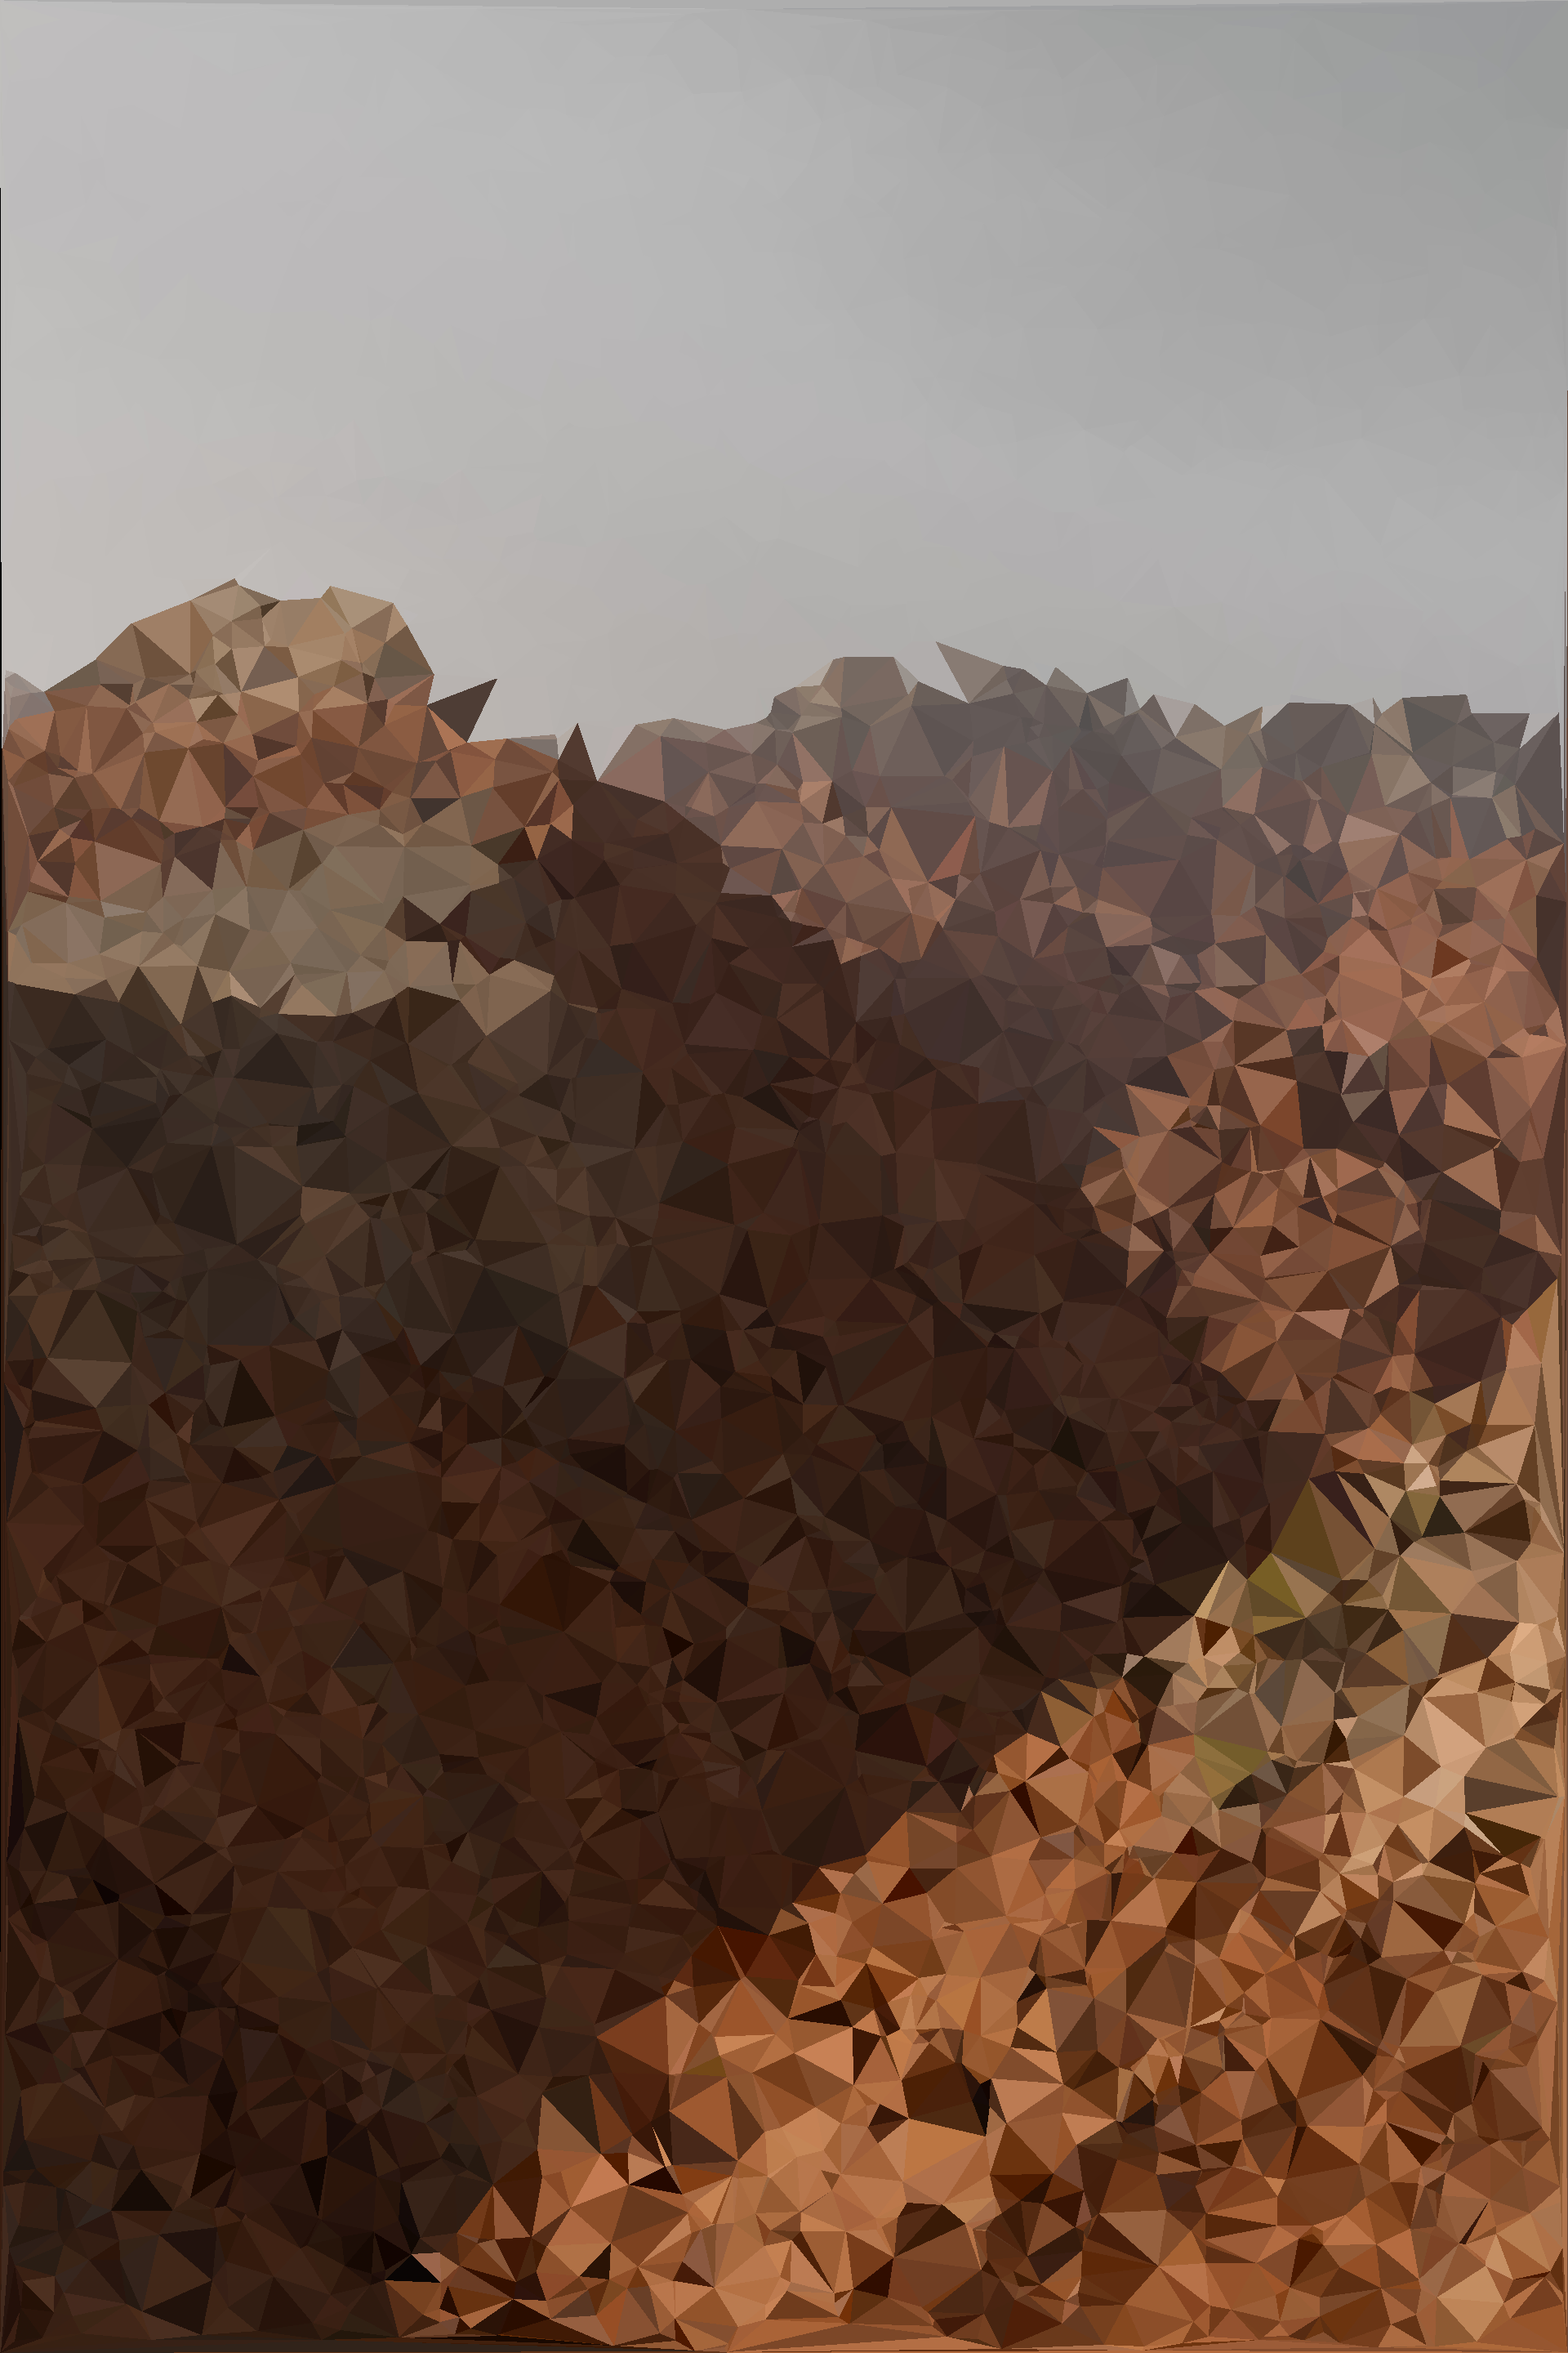
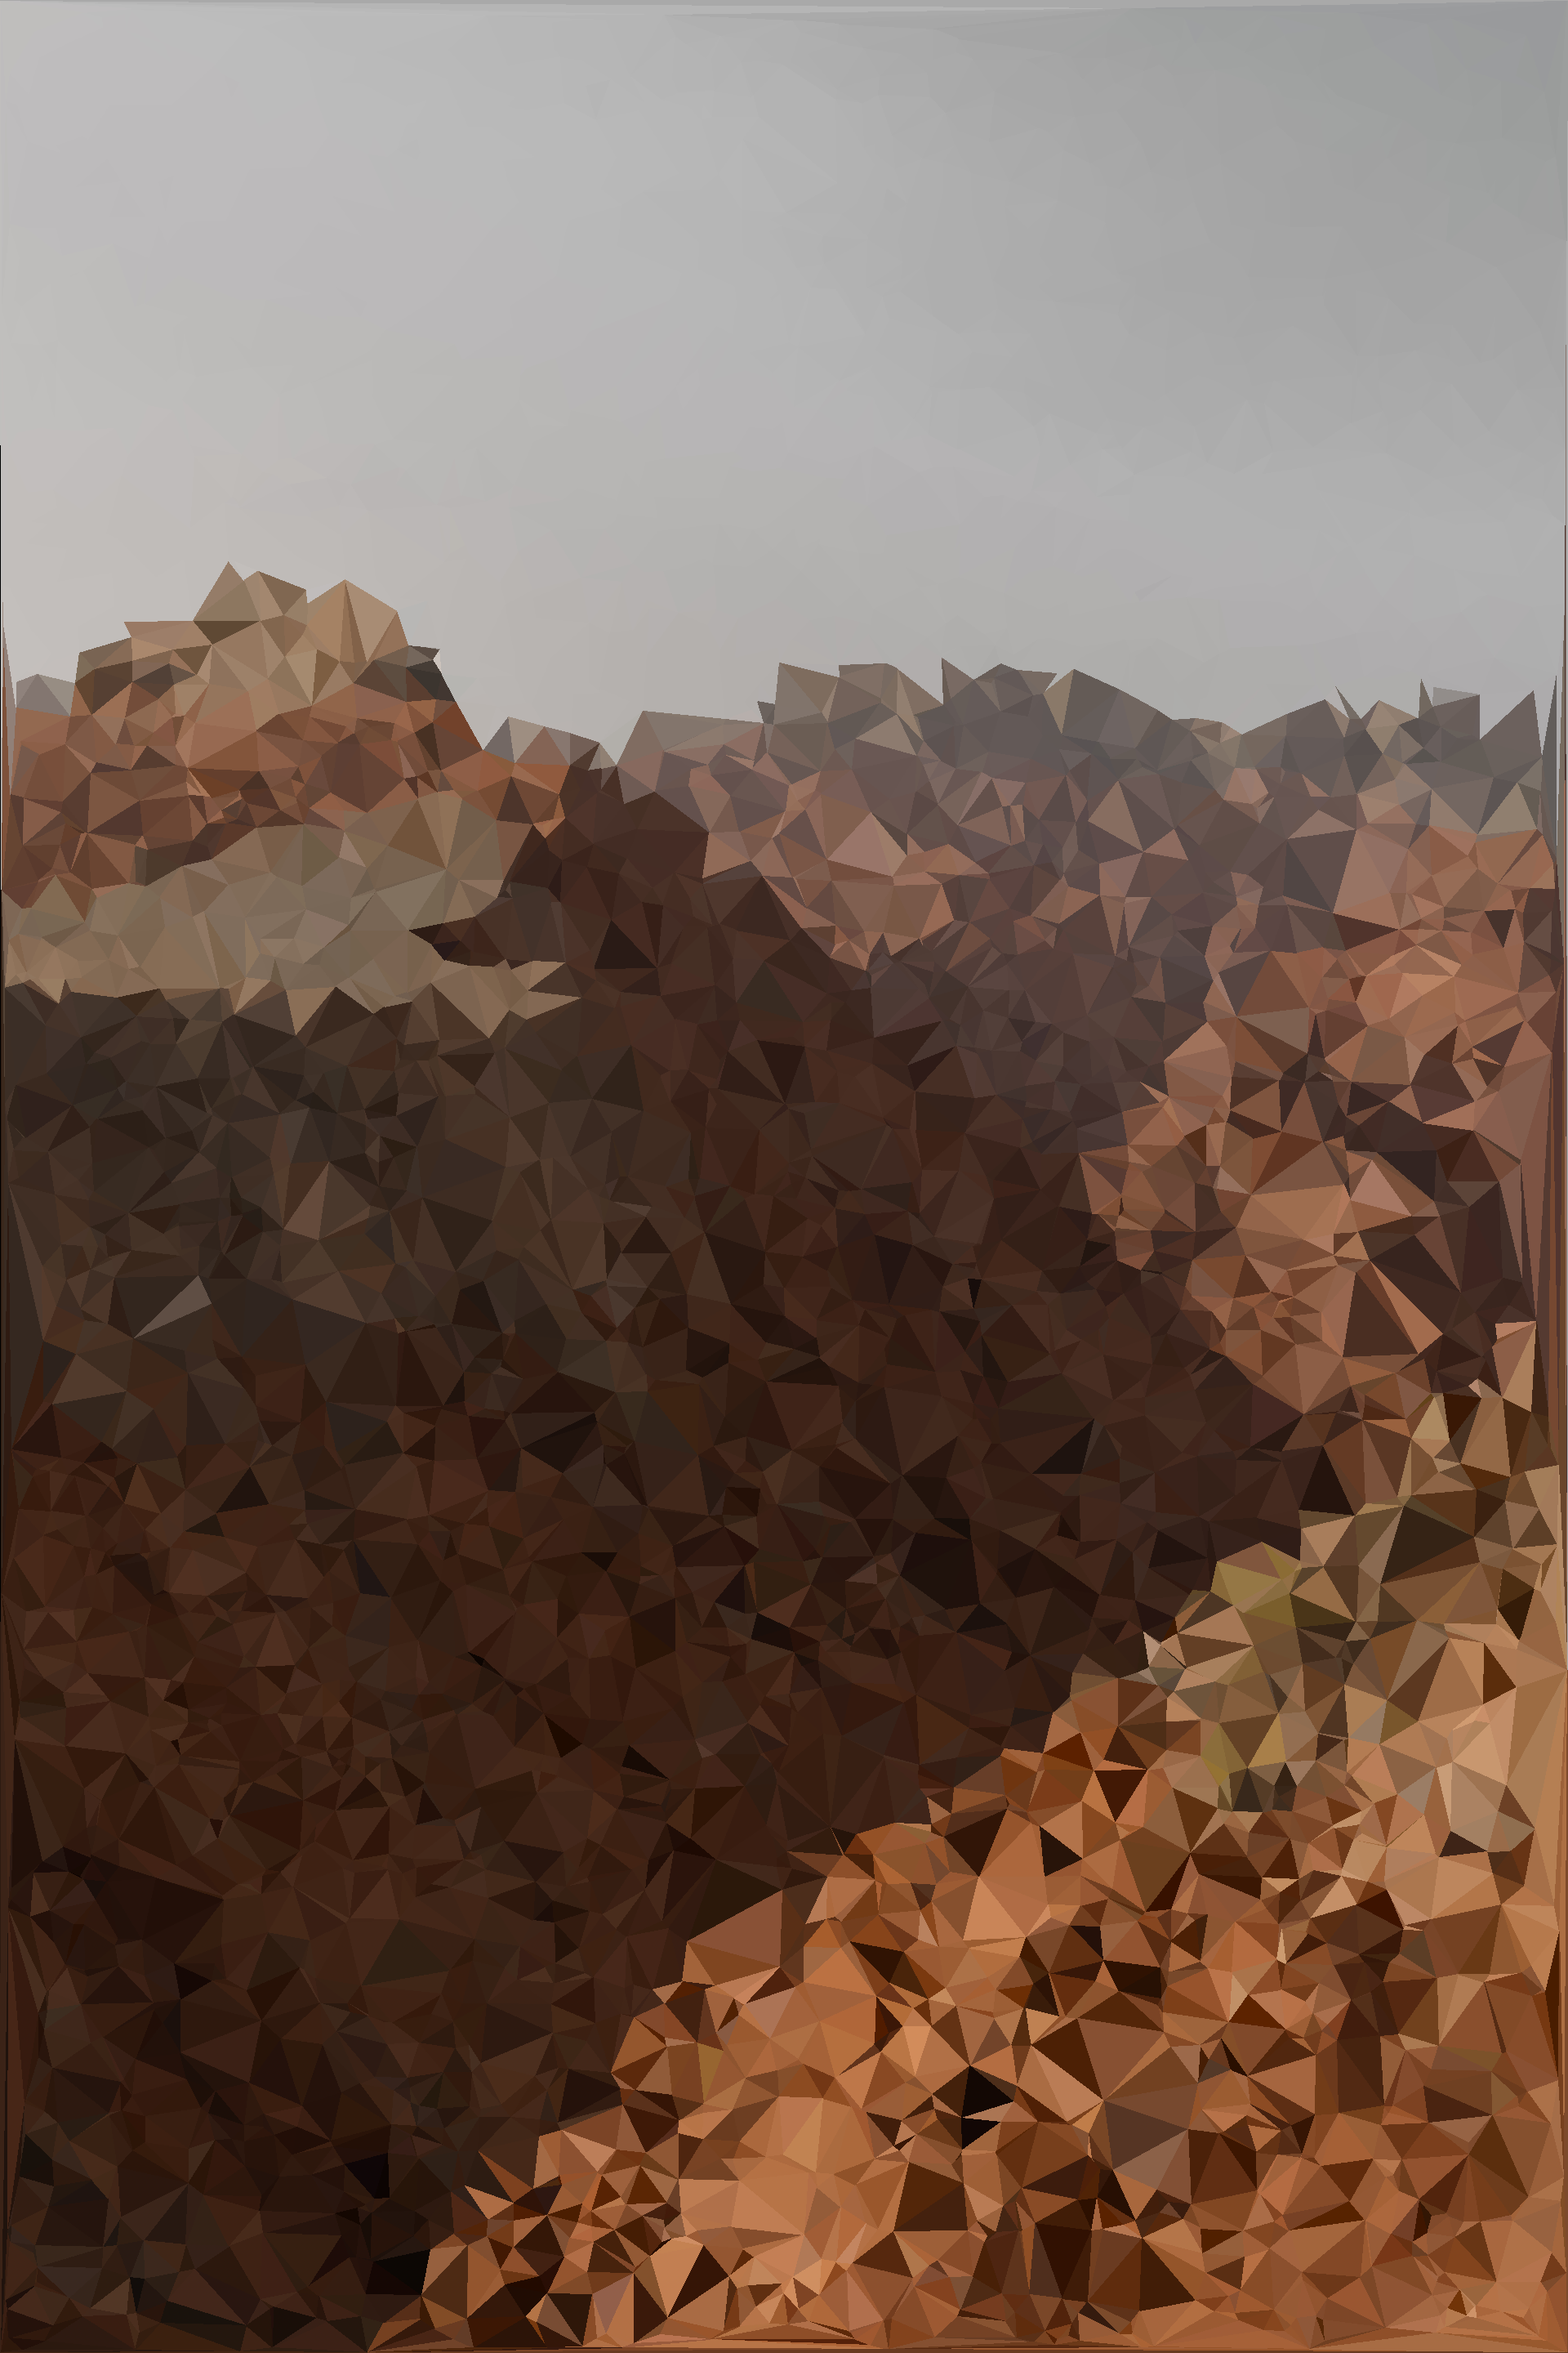
Fix issue affecting pngs

diff --git a/polify_demo/index.ts b/polify_demo/index.ts
@@ -41,6 +41,8 @@ class PolifyDemo {
       "low-threshold"
     ) as HTMLInputElement;
 
+    // Also forcefully reset values to stock.
+
     maxVerticesSlider.onmouseup = () => {
       this.polifyConfig.max_vertices = parseInt(maxVerticesSlider.value);
     };

diff --git a/src/triangulation.rs b/src/triangulation.rs
@@ -307,9 +307,7 @@ pub fn triangulation(
     let triangulation = triangulate(&node_list.list).ok_or(PolifyError::Triangulation)?;
 
     // Now let's convert the triangulation into an image.
-    let rgb_img = image
-        .as_rgb8()
-        .ok_or(crate::error::PolifyError::RgbConversion)?;
+    let rgb_img = image.clone().into_rgba8();
     let (width, height) = rgb_img.dimensions();
     let mut img = RgbImage::new(width, height);
     let consecutive_slices = consecutive_slices(&triangulation.triangles, 3);

diff --git a/examples/simple_test/src/main.rs b/examples/simple_test/src/main.rs
@@ -18,7 +18,7 @@ fn main() {
     );
 
     let start = Instant::now();
-    triangulate_image("./anton-lecock.jpg", "./rocks.png");
+    triangulate_image("./anton-lecock.png", "./rocks.png");
     println!(
         "Image 3 took {} ms",
         Instant::now().duration_since(start).as_millis()
